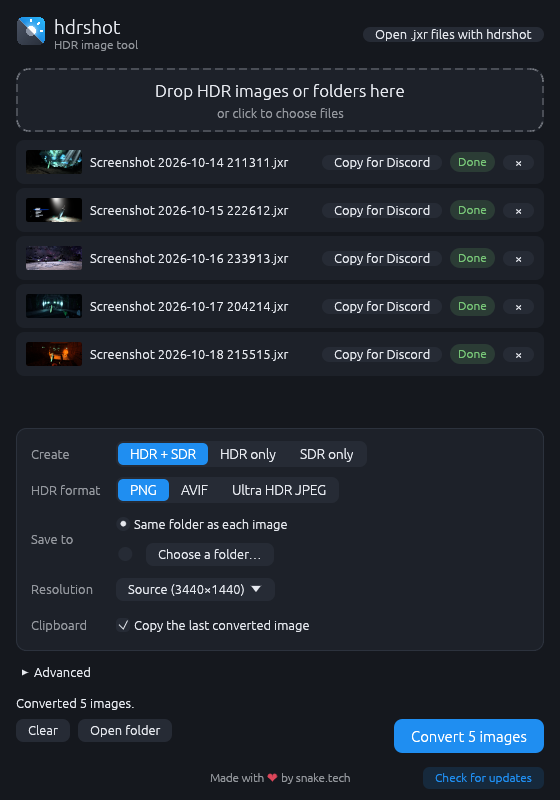
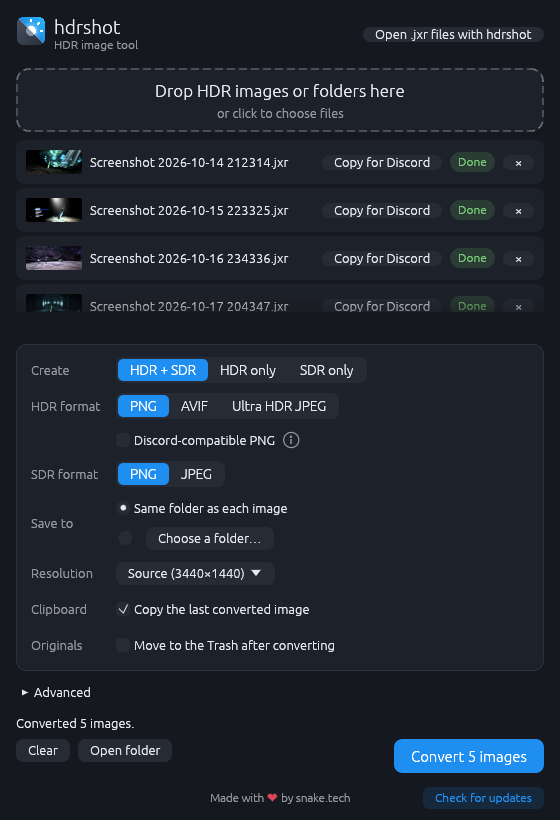
Document the M4 features and update the screenshot

diff --git a/README.md b/README.md
@@ -42,7 +42,7 @@ updates**.
   twentieth of the PNG's size, shown in HDR by Chrome, Edge and Firefox.
 - **Ultra HDR JPEG.** Or as a JPEG with a gain map: every app shows the
   SDR picture, and Chrome, Edge, Android and Instagram brighten it to HDR.
-- **SDR PNG.** Tone-mapped the way Windows shows the
+- **SDR PNG or JPEG.** Tone-mapped the way Windows shows the
   screenshot on an SDR screen, with highlights that roll off smoothly and
   colors that keep their hue.
 - **Faithful by default.** Brightness, peak and white level all
@@ -54,9 +54,12 @@ updates**.
   form Discord shows with correct colors.
 - **Other HDR inputs.** Also reads OpenEXR (`.exr`), Radiance (`.hdr`),
   HDR PNG and JPEG XL (`.jxl`) files, for game photo modes, renders and re-tone-mapping.
-- **Double-click to convert.** Optionally opens `.jxr` files with hdrshot
-  on Windows and Linux, and is listed under **Open with** for the other
-  formats it reads.
+- **Watch folder.** Optionally converts each new screenshot saved to a
+  folder, such as the Game Bar captures folder, as soon as it is written.
+- **Double-click or right-click to convert.** Optionally opens `.jxr` files
+  with hdrshot on Windows and Linux, is listed under **Open with** for the
+  other formats it reads, and on Windows adds **Convert with hdrshot** to
+  their right-click menu.
 - **Parallel conversion.** Uses all CPU cores, written in pure Rust with no
   external libraries.
 
@@ -118,8 +121,8 @@ cargo install hdrshot-gui    # desktop app
    screenshots picked with **Open with**, go to the window that is already
    open.
 2. Choose **HDR + SDR**, **HDR only** or **SDR only**, the HDR format
-   (**PNG**, **AVIF** or **Ultra HDR JPEG**), and whether to save next to
-   each image or into one folder.
+   (**PNG**, **AVIF** or **Ultra HDR JPEG**), the SDR format (**PNG** or
+   **JPEG**), and whether to save next to each image or into one folder.
 3. Press **Convert**.
 
 <details>
@@ -143,6 +146,21 @@ cargo install hdrshot-gui    # desktop app
   the `cICP` and `mDCV` chunks, like the Discord copy, for uploading the
   saved files to Discord yourself. Windows Photos and most HDR viewers then
   show them in SDR only, so it is off by default.
+- **SDR format** **JPEG** saves the SDR image as a JPEG at quality 90,
+  a fraction of the PNG's size, for chats and forums that don't show HDR.
+  JPEG has no transparency, so transparent areas are shown over black.
+- **Originals: Move to the Recycle Bin after converting** (the Trash on
+  macOS and Linux) clears out the originals once all of their files are
+  saved. Images that fail, or whose files already existed, are kept, and so
+  is everything when you stop a batch. It is off by default.
+- **Watch folder**, at the top of **Advanced**, converts each image saved to
+  the chosen folder from then on, with the current settings, as soon as it
+  is completely written. On Windows it suggests the Game Bar captures
+  folder (`Videos\Captures`). Images already in the folder are left alone,
+  and PNGs are ignored, since hdrshot writes its own there. It works while
+  the app is open, and resumes when the app starts again. With **Copy the
+  last converted image** on, each new screenshot is on the clipboard, ready
+  to paste into Discord.
 - **Previews.** Each file gets a thumbnail; hover it for a larger SDR
   preview. When the Advanced settings are changed, the preview shows the
   automatic result and the result with your settings, so you can compare.
@@ -163,10 +181,14 @@ cargo install hdrshot-gui    # desktop app
   on a screenshot open it in the app. Windows asks you to confirm the choice
   in Settings. It also lists hdrshot under **Open with** for `.wdp`, `.exr`,
   `.jxl` and `.hdr` files, without making it their default.
+  On Windows it also adds **Convert with hdrshot** to the right-click menu
+  of these files (on Windows 11 under **Show more options**), which opens
+  the app and converts them right away with your saved settings. Selecting
+  several files converts them as one batch.
   On macOS, hdrshot is listed under **Open With** for all of these; to make
   it the default for a type, choose it in a file's **Get Info** window and
   click **Change All**.
-- **Advanced** has **Keep the capture date** (on by default), which gives
+- **Advanced** also has **Keep the capture date** (on by default), which gives
   each PNG the date of its screenshot so folders sorted by date stay in
   capture order. **Save HDR and SDR images in subfolders** writes them
   to `hdr` and `sdr` subfolders, and with that on, **End file names in _hdr
@@ -197,6 +219,7 @@ hdrshot --hdr -o out/ a.jxr b.jxr        # HDR only, into out/
 hdrshot *.jxr                            # wildcards work in cmd and PowerShell too
 hdrshot -r Captures/                     # a folder, including its subfolders
 hdrshot --sdr --sdr-white 203 shot.jxr   # darker SDR result
+hdrshot --watch Captures/ --copy         # convert each new screenshot, copy it
 ```
 
 Several files are converted at once, up to eight at a time. Each line of
@@ -214,13 +237,15 @@ Everything is automatic; these options are only for tuning:
 
 | Option | Effect |
 | --- | --- |
-| `--hdr` / `--sdr` | Make only the HDR image or only the SDR PNG |
+| `--hdr` / `--sdr` | Make only the HDR image or only the SDR image |
 | `-r, --recursive` | Also convert files in subfolders of the given folders |
 | `-o, --output <DIR>` | Save into this folder instead of next to each input |
 | `--format <png\|avif\|ultrahdr>` | File format of the HDR output (default `png`) |
 | `--avif-quality <1-100>` | AVIF quality (default 90); lower is smaller |
 | `--avif-speed <0-10>` | AVIF encoder speed (default 8); 10 is faster but larger |
 | `--avif-420` | Store AVIF color at half resolution: smaller, softer colored edges |
+| `--sdr-format <png\|jpeg>` | File format of the SDR output (default `png`) |
+| `--jpeg-quality <1-100>` | JPEG quality of the SDR output (default 90) |
 | `--for-discord` | Leave `cICP` and `mDCV` out of HDR PNGs so Discord shows them correctly; HDR viewers then show SDR |
 | `--hdr-peak <NITS>` | Limit the HDR image's brightest highlight, rolling off anything brighter |
 | `--sdr-white <NITS>` | HDR brightness that becomes SDR white (default 80; lower is brighter) |
@@ -231,6 +256,8 @@ Everything is automatic; these options are only for tuning:
 | `--max-height <PIXELS>` | Scale taller images down to this height, averaging in linear light |
 | `--overwrite` | Replace files that already exist; by default they are skipped |
 | `--no-keep-date` | Give the files the current time instead of the screenshot's date |
+| `--trash-originals` | Move each input to the Recycle Bin (Trash) once all of its files are written |
+| `--watch <FOLDER>` | Convert each new image saved to this folder until Ctrl+C; inputs become optional |
 | `--copy` | Copy the last file's PNG (the HDR one if made) to the clipboard, ready for Discord |
 | `--copy-small` | Like `--copy`, but scale the copy down if it is over Discord's 10 MB limit |
 | `-q, --quiet` | Print only errors |

diff --git a/CHANGELOG.md b/CHANGELOG.md
@@ -4,6 +4,20 @@
 
 ### Added
 
+- Watch folder: the desktop app (under Advanced) and `--watch FOLDER`
+  convert each new image saved to a folder, such as the Game Bar captures
+  folder, as soon as it is completely written. Existing images and PNGs in
+  the folder are left alone.
+- Convert with hdrshot in the right-click menu of `.jxr`, `.wdp`, `.exr`,
+  `.jxl` and `.hdr` files on Windows, added by Open .jxr files with
+  hdrshot. It converts with the saved settings; several selected files
+  become one batch.
+- Move originals to the Recycle Bin (Trash) after converting, opt-in: the
+  Originals setting in the app and `--trash-originals`. Only originals
+  whose files were all written are moved.
+- JPEG as the SDR format: the SDR format setting in the app and
+  `--sdr-format jpeg` with `--jpeg-quality` (default 90).
+
 - Releases publish the crates to crates.io and update the winget packages
   from GitHub Actions. Manifests for winget (`SnakeTech.hdrshot`,
   `SnakeTech.hdrshot.CLI`) and a Scoop bucket are in `packaging/`.
@@ -19,6 +33,7 @@
   crates, so older toolchains get a clear message.
 - `hdrshot-egui-backend` 0.2.0 drops the `rayon`, `log` and `raster_stats`
   features, which the app never used.
+- The desktop app's window opens 820 points tall, to fit the new settings.
 
 ## [2.0.1] - 2026-10-21
 
